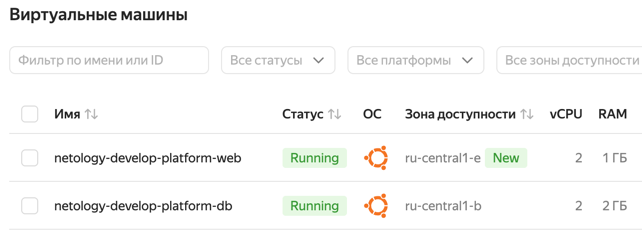
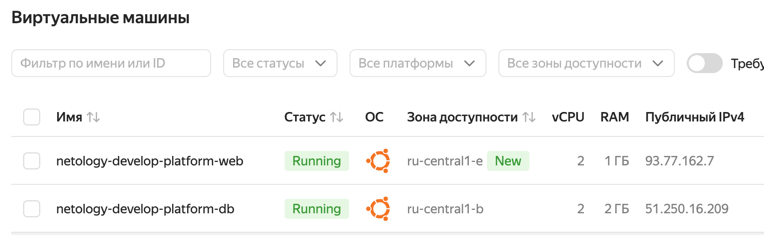
upd

diff --git a/modules/ter/homework/02/readme.md b/modules/ter/homework/02/readme.md
@@ -19,3 +19,5 @@
 ![img.png](task-3/img.png)
 
 # TASK-4
+![img.png](task-4/img.png)
+
